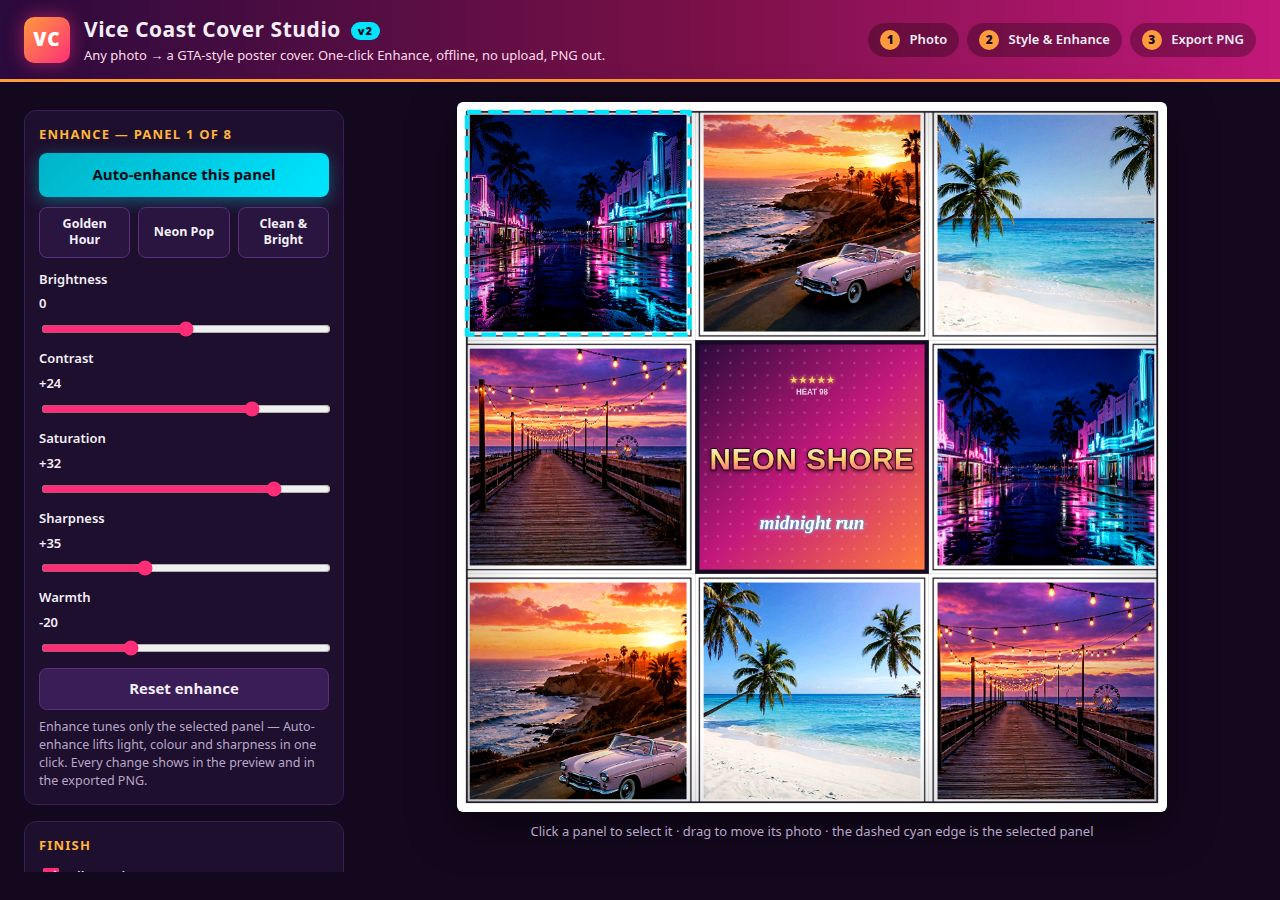
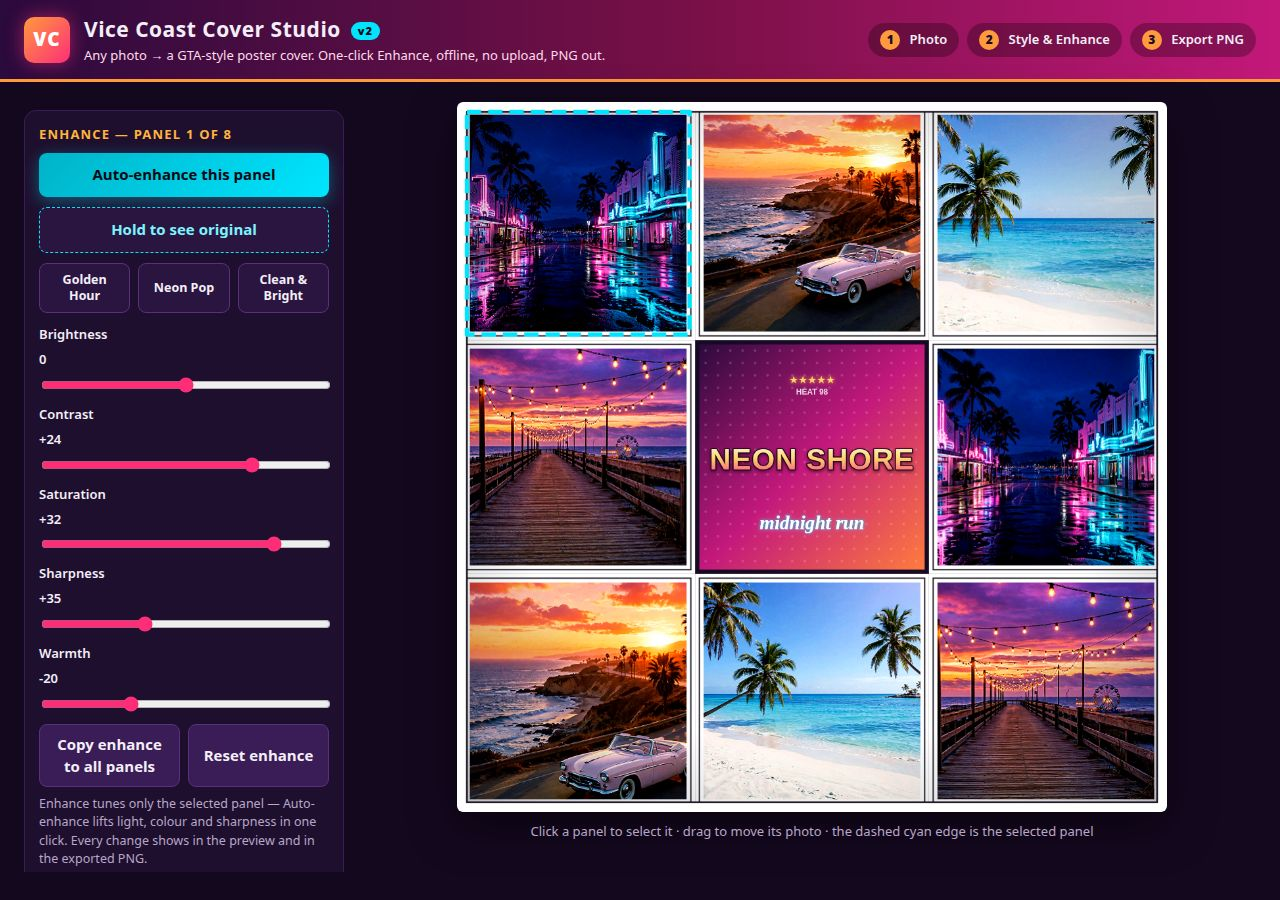
Compare, Copy-enhance and keyboard shortcuts
- Before/after Compare: hold the new button (or C) to see the selected
  panel without its Enhance dials, with an ORIGINAL tag on the panel
- Copy enhance to all panels: spreads the selected panel's five dials
  across the whole cover in one click
- Keyboard shortcuts: 1-5 pick a grade, E auto-enhances, C compares
  while held; ignored while typing in a field
- Exports always draw the enhanced cover, never the Compare view
- Re-shot 2-editor.jpg with the new Enhance controls visible

Changed region(s): [[0.0312, 0.2178, 0.2812, 0.9644]]

diff --git a/app/src/main.js b/app/src/main.js
@@ -3,7 +3,7 @@
 // slider, PNG out. A `?shot=` query sets up a fixed scene for a screenshot
 // instead (./shots.js).
 import { drawCover, defaultState, layoutRects, LAYOUTS, SIZES, GRADES } from './cover.js';
-import { AUTO_ENHANCE, ENHANCE_PRESETS, defaultEnhance } from './enhance.js';
+import { AUTO_ENHANCE, ENHANCE_PRESETS, defaultEnhance, isDefaultEnhance } from './enhance.js';
 import { runShot } from './shots.js';
 
 const canvas = document.getElementById('cover');
@@ -224,6 +224,44 @@ document.getElementById('resetEnhance').addEventListener('click', () => {
   render();
   statusEl.textContent = 'Enhance reset for this panel.';
 });
+
+// Compare: while the button (or the C key) is held, the selected panel draws
+// without its Enhance dials, so the original and the tuned photo can be
+// judged back to back. Releasing restores the enhanced view at once.
+const compareBtn = document.getElementById('compareBtn');
+function setComparing(on) {
+  if (state.comparing === on) return;
+  state.comparing = on;
+  compareBtn.classList.toggle('comparing', on);
+  compareBtn.setAttribute('aria-pressed', String(on));
+  compareBtn.textContent = on ? 'Showing original — release to compare' : 'Hold to see original';
+  render();
+  // An un-enhanced panel looks identical under Compare, so say so instead of
+  // promising an enhanced version that does not exist yet.
+  if (on && isDefaultEnhance(selectedPanel().enhance)) {
+    statusEl.textContent = 'This panel has no Enhance applied yet — nothing to compare. Try Auto-enhance first.';
+  } else {
+    statusEl.textContent = on
+      ? 'Showing the original photo — release the button to see the enhanced version.'
+      : 'Back to the enhanced photo.';
+  }
+}
+compareBtn.addEventListener('pointerdown', (e) => {
+  e.preventDefault();
+  setComparing(true);
+});
+for (const ev of ['pointerup', 'pointerleave', 'pointercancel']) {
+  compareBtn.addEventListener(ev, () => setComparing(false));
+}
+
+// Copy enhance: spreads the selected panel's five dials to every panel of
+// the cover, so one good look can be applied everywhere in a single click.
+document.getElementById('copyEnhance').addEventListener('click', () => {
+  const dials = { ...selectedPanel().enhance };
+  for (let i = 0; i < panelCount(); i++) state.panels[i].enhance = { ...dials };
+  render();
+  statusEl.textContent = `Enhance copied to all ${panelCount()} panels.`;
+});
 for (const id of ['grain', 'vignette', 'frame']) {
   document.getElementById(id).addEventListener('change', (e) => {
     state[id] = e.target.checked;
@@ -231,12 +269,48 @@ for (const id of ['grain', 'vignette', 'frame']) {
   });
 }
 
+// Keyboard shortcuts: 1–5 pick the five colour grades in button order, E
+// runs Auto-enhance on the selected panel, and holding C compares the
+// selected panel with its original. Ignored while typing in a text field,
+// and ignored with a modifier key, so browser shortcuts keep working.
+const GRADE_KEYS = ['sunset', 'neon', 'vice', 'heat', 'noir'];
+function typingInField(e) {
+  const tag = e.target?.tagName;
+  return tag === 'INPUT' || tag === 'TEXTAREA' || tag === 'SELECT';
+}
+document.addEventListener('keydown', (e) => {
+  if (typingInField(e) || e.metaKey || e.ctrlKey || e.altKey) return;
+  const digit = Number(e.key);
+  if (digit >= 1 && digit <= GRADE_KEYS.length) {
+    state.grade = GRADE_KEYS[digit - 1];
+    render();
+    statusEl.textContent = `${GRADES[state.grade].name} grade selected.`;
+    return;
+  }
+  if (e.repeat) return;
+  if (e.key === 'e' || e.key === 'E') {
+    selectedPanel().enhance = { ...AUTO_ENHANCE };
+    render();
+    statusEl.textContent = 'Auto-enhance applied to this panel — light, colour and sharpness lifted.';
+  } else if (e.key === 'c' || e.key === 'C') {
+    setComparing(true);
+  }
+});
+document.addEventListener('keyup', (e) => {
+  if (e.key === 'c' || e.key === 'C') setComparing(false);
+});
+
 document.getElementById('export').addEventListener('click', () => {
   const size = SIZES[state.size];
   const off = document.createElement('canvas');
   off.width = size.w;
   off.height = size.h;
+  // An export never carries the Compare view: the PNG always shows the
+  // enhanced cover, even if the C key is still held when Export is clicked.
+  const wasComparing = state.comparing;
+  state.comparing = false;
   drawCover(off, state, {});
+  state.comparing = wasComparing;
   off.toBlob((blob) => {
     const a = document.createElement('a');
     a.href = URL.createObjectURL(blob);

diff --git a/app/src/cover.js b/app/src/cover.js
@@ -48,6 +48,9 @@ export function defaultState() {
       enhance: defaultEnhance(),
     })),
     selected: 0,
+    // While true, the selected panel draws without its Enhance dials (the
+    // Compare view); exports always clear it first, so a PNG is never raw.
+    comparing: false,
   };
 }
 
@@ -129,10 +132,12 @@ const SHARPEN_MAX_SIDE = 1200;
  * its Enhance dials. Brightness, contrast and saturation ride on ctx.filter;
  * warmth is a tint overlay; sharpness goes through a panel-sized offscreen
  * canvas (capped at SHARPEN_MAX_SIDE so a full-bleed panel stays quick),
- * sharpened by convolution and drawn back in.
+ * sharpened by convolution and drawn back in. Pass raw=true to draw the
+ * photo untouched instead — the before/after Compare view, while the
+ * Compare button (or the C key) is held on the selected panel.
  */
-function drawPanelPhoto(ctx, img, rect, panel) {
-  const enhance = panel.enhance ?? defaultEnhance();
+function drawPanelPhoto(ctx, img, rect, panel, raw = false) {
+  const enhance = raw ? defaultEnhance() : (panel.enhance ?? defaultEnhance());
   const base = Math.max(rect.w / img.naturalWidth, rect.h / img.naturalHeight) * panel.zoom;
   const pw = img.naturalWidth * base;
   const ph = img.naturalHeight * base;
@@ -365,7 +370,8 @@ export function drawCover(canvas, state, opts = {}) {
   for (let i = 0; i < count; i++) {
     const panel = state.panels[i];
     const img = panel.photo >= 0 ? state.photos[panel.photo] : null;
-    if (img) drawPanelPhoto(ctx, img, panels[i], panel);
+    const comparing = state.comparing && i === state.selected;
+    if (img) drawPanelPhoto(ctx, img, panels[i], panel, comparing);
     else drawEmptyPanel(ctx, panels[i]);
     applyGrade(ctx, panels[i], grade);
   }
@@ -411,6 +417,24 @@ export function drawCover(canvas, state, opts = {}) {
     ctx.lineWidth = Math.max(3, Math.min(W, H) * 0.006);
     ctx.setLineDash([Math.min(W, H) * 0.02, Math.min(W, H) * 0.01]);
     ctx.strokeRect(r.x + 2, r.y + 2, r.w - 4, r.h - 4);
+    ctx.restore();
+  }
+  if (state.comparing && opts.selected != null && opts.selected < count) {
+    // A small tag on the panel being compared, so the original view is
+    // unmistakable even when the enhance is subtle. Exports pass no
+    // selection, so the tag never reaches a PNG.
+    const r = panels[opts.selected];
+    const tag = 'ORIGINAL';
+    ctx.save();
+    ctx.font = `900 ${Math.max(12, r.w * 0.05)}px ${TITLE_FAMILY}`;
+    const tw = ctx.measureText(tag).width;
+    const pad = Math.max(6, r.w * 0.02);
+    const th = Math.max(18, r.w * 0.08);
+    ctx.fillStyle = 'rgba(10,4,18,0.8)';
+    ctx.fillRect(r.x + pad, r.y + pad, tw + pad * 2, th);
+    ctx.fillStyle = '#7df3ff';
+    ctx.textBaseline = 'middle';
+    ctx.fillText(tag, r.x + pad * 2, r.y + pad + th / 2);
     ctx.restore();
   }
 }

diff --git a/app/index.html b/app/index.html
@@ -94,6 +94,7 @@
     <section id="enhanceSection">
       <h2>Enhance — <span id="enhanceLabel">Panel 1 of 8</span></h2>
       <button id="autoEnhance" type="button" class="auto">Auto-enhance this panel</button>
+      <button id="compareBtn" type="button" class="compare" aria-pressed="false">Hold to see original</button>
       <div class="presets">
         <button type="button" data-preset="golden">Golden Hour</button>
         <button type="button" data-preset="neon">Neon Pop</button>
@@ -115,9 +116,11 @@
         <input id="enh-warmth" type="range" min="-50" max="50" step="1" value="0">
       </label>
       <div class="row">
+        <button id="copyEnhance" type="button">Copy enhance to all panels</button>
         <button id="resetEnhance" type="button">Reset enhance</button>
       </div>
       <p class="note">Enhance tunes only the selected panel — Auto-enhance lifts light, colour and sharpness in one click. Every change shows in the preview and in the exported PNG.</p>
+      <p class="note">Shortcuts: keys 1&ndash;5 pick a colour grade, E auto-enhances this panel, hold C to compare with the original.</p>
     </section>
     <section>
       <h2>Finish</h2>

diff --git a/app/style.css b/app/style.css
@@ -35,6 +35,9 @@ button.active { background: linear-gradient(135deg, #ff2d78, #ff7a3d); border-co
 .grades button::before { content: ""; position: absolute; left: 9px; top: 50%; transform: translateY(-50%); width: 14px; height: 14px; border-radius: 50%; background: var(--sw); }
 .auto { width: 100%; margin-bottom: 10px; padding: 11px; background: linear-gradient(135deg, #00b3c8, #00e5ff); border: 0; color: #0a0a14; box-shadow: 0 4px 16px rgba(0, 229, 255, 0.35); }
 .auto:hover { border: 0; filter: brightness(1.1); }
+.compare { width: 100%; margin-bottom: 10px; padding: 11px; background: #2a1540; border: 1px dashed #00e5ff; color: #7df3ff; }
+.compare:hover { border-color: #00e5ff; background: #33204d; }
+.compare.comparing { background: linear-gradient(135deg, #00b3c8, #00e5ff); border-style: solid; border-color: transparent; color: #0a0a14; }
 .presets { display: grid; grid-template-columns: 1fr 1fr 1fr; gap: 8px; margin-bottom: 12px; }
 .presets button { font-size: 12.5px; line-height: 1.3; padding: 8px 6px; background: #2a1540; }
 .thumbs { display: flex; flex-wrap: wrap; gap: 8px; margin-top: 10px; }

diff --git a/README.md b/README.md
@@ -17,7 +17,8 @@ node serve.ts
 2. Pick a layout, a post size and a colour grade; type your title and subtitle.
 3. Click a panel to select it, drag to move its photo, or use the zoom/pan sliders — "Fill all panels with this photo" spreads one photo across the cover.
 4. Enhance the selected panel: Auto-enhance in one click, a preset, or the five sliders.
-5. Export PNG.
+5. Compare before and after: hold "Hold to see original" (or the C key) to see the selected panel without its Enhance dials, and "Copy enhance to all panels" spreads one panel's five dials across the whole cover. Keyboard shortcuts: 1–5 pick a colour grade, E auto-enhances the selected panel, C compares while held.
+6. Export PNG.
 
 ## Methodology
 
